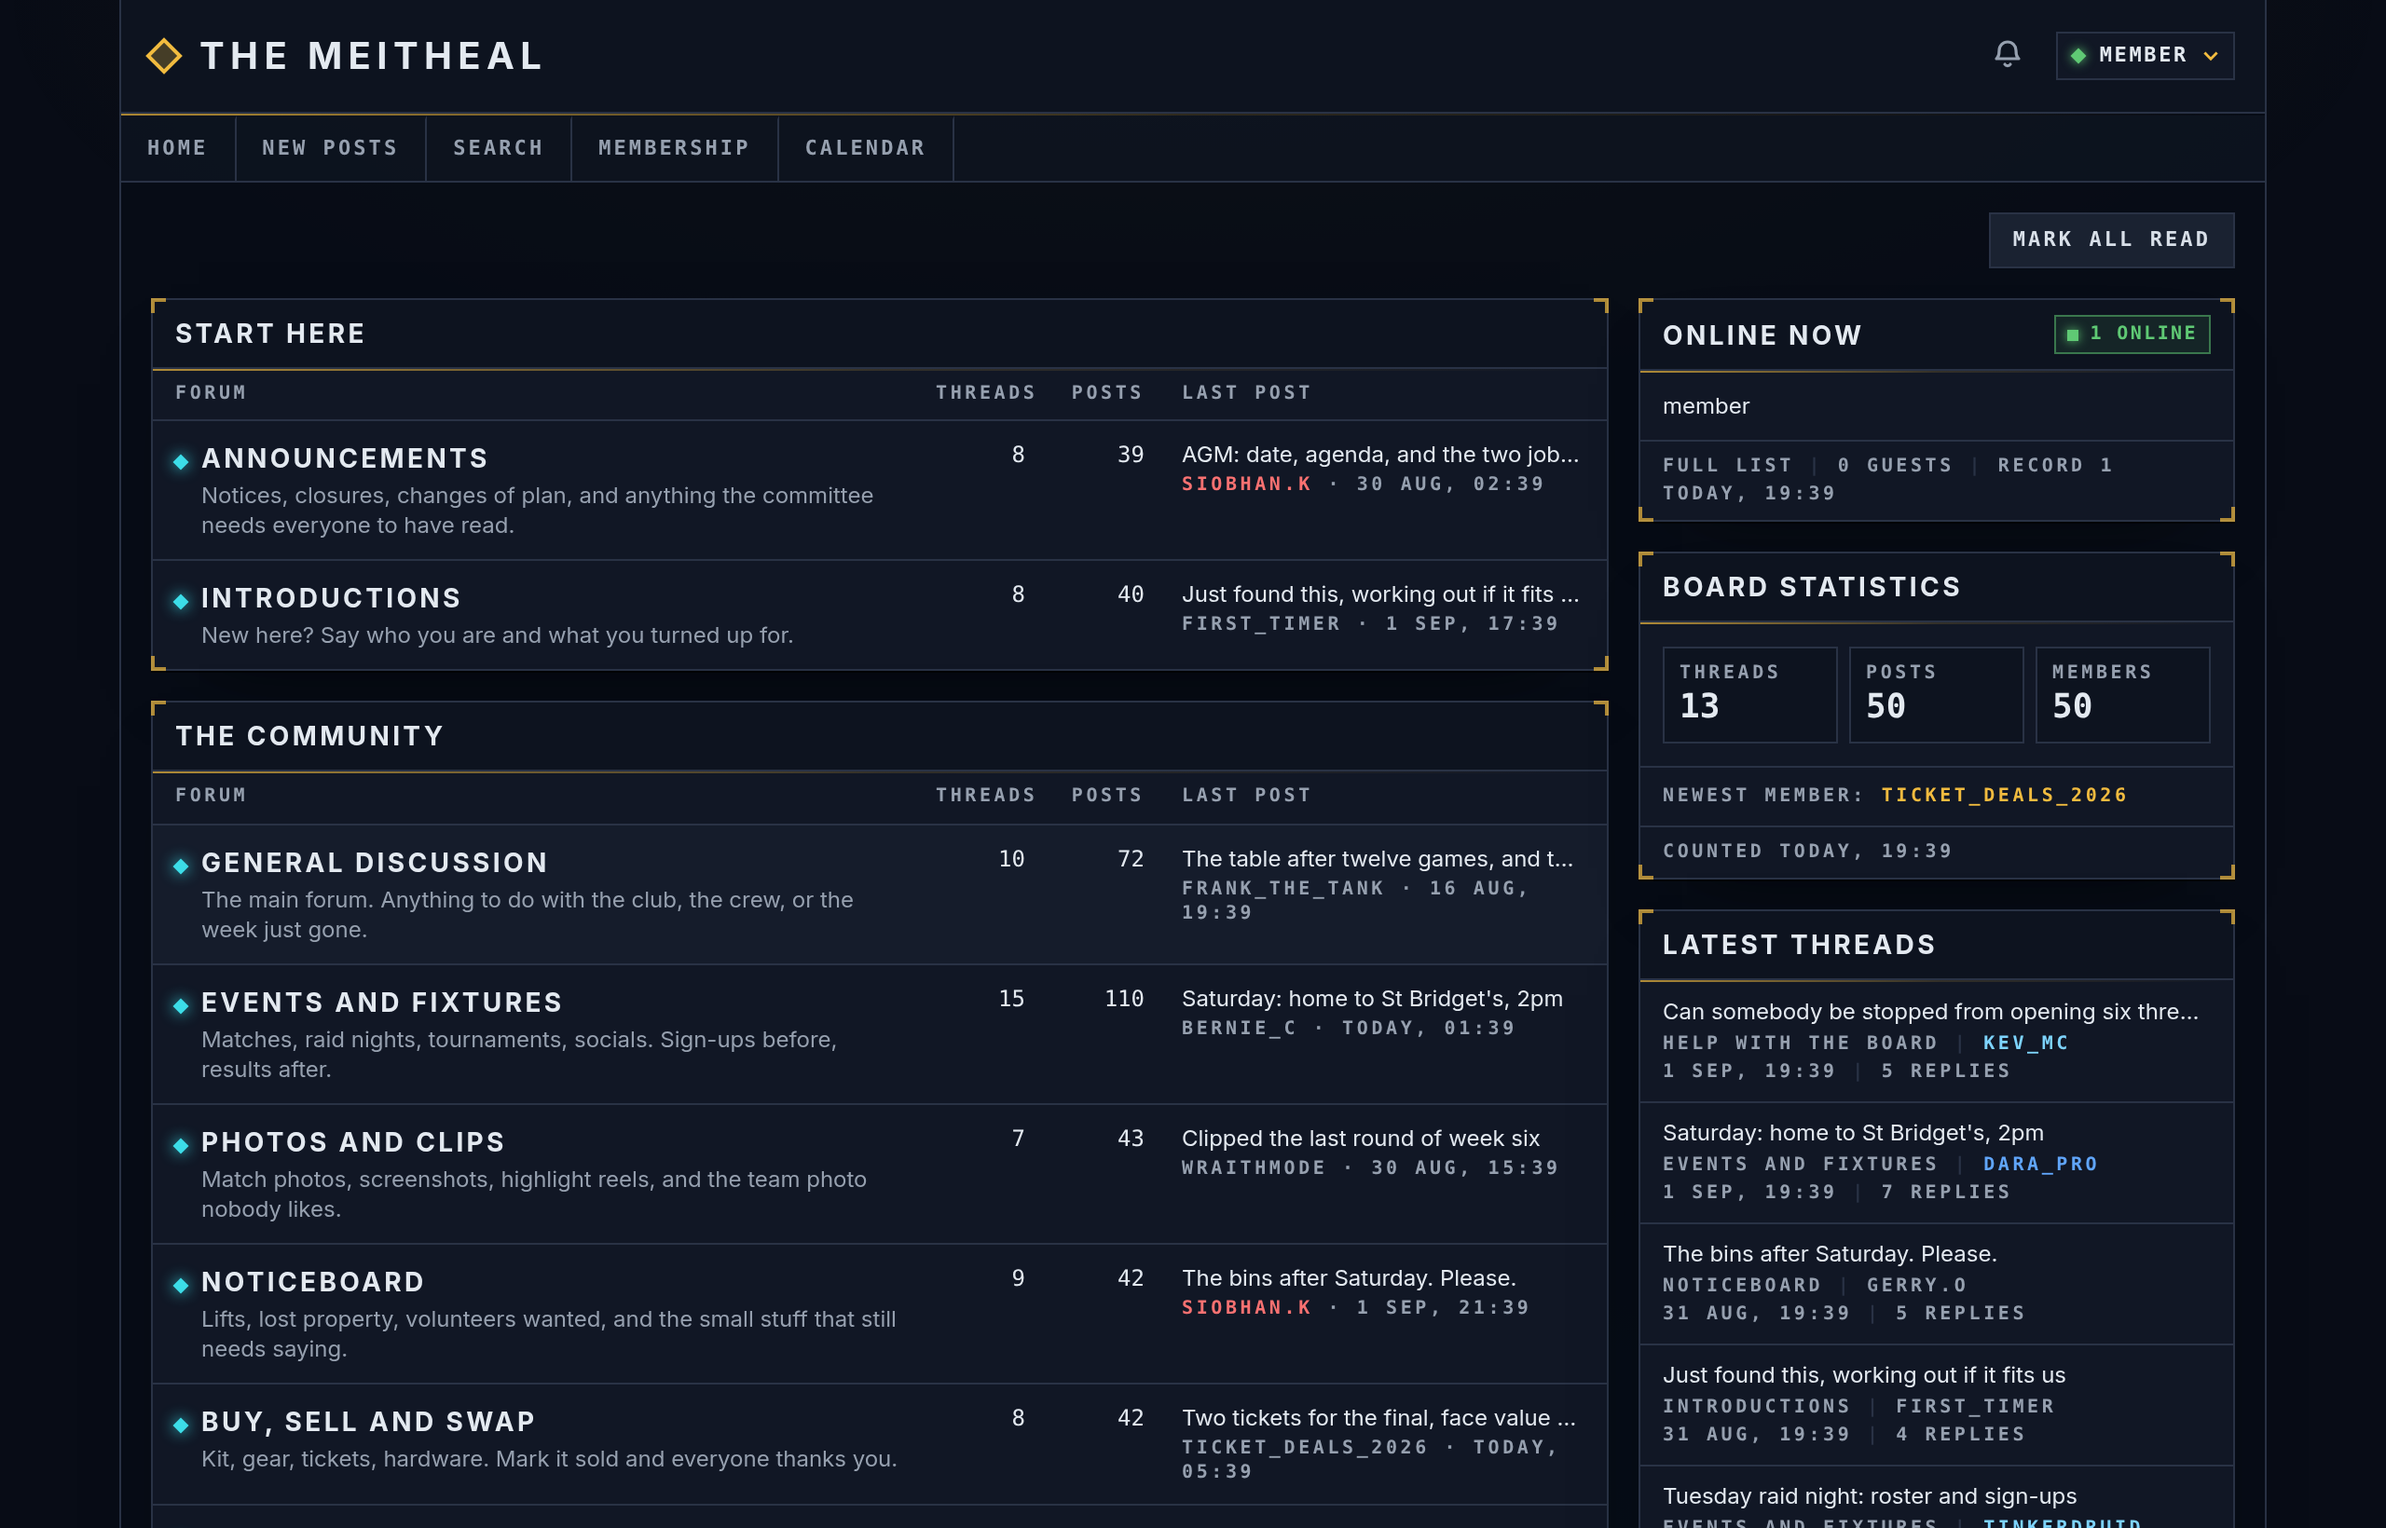
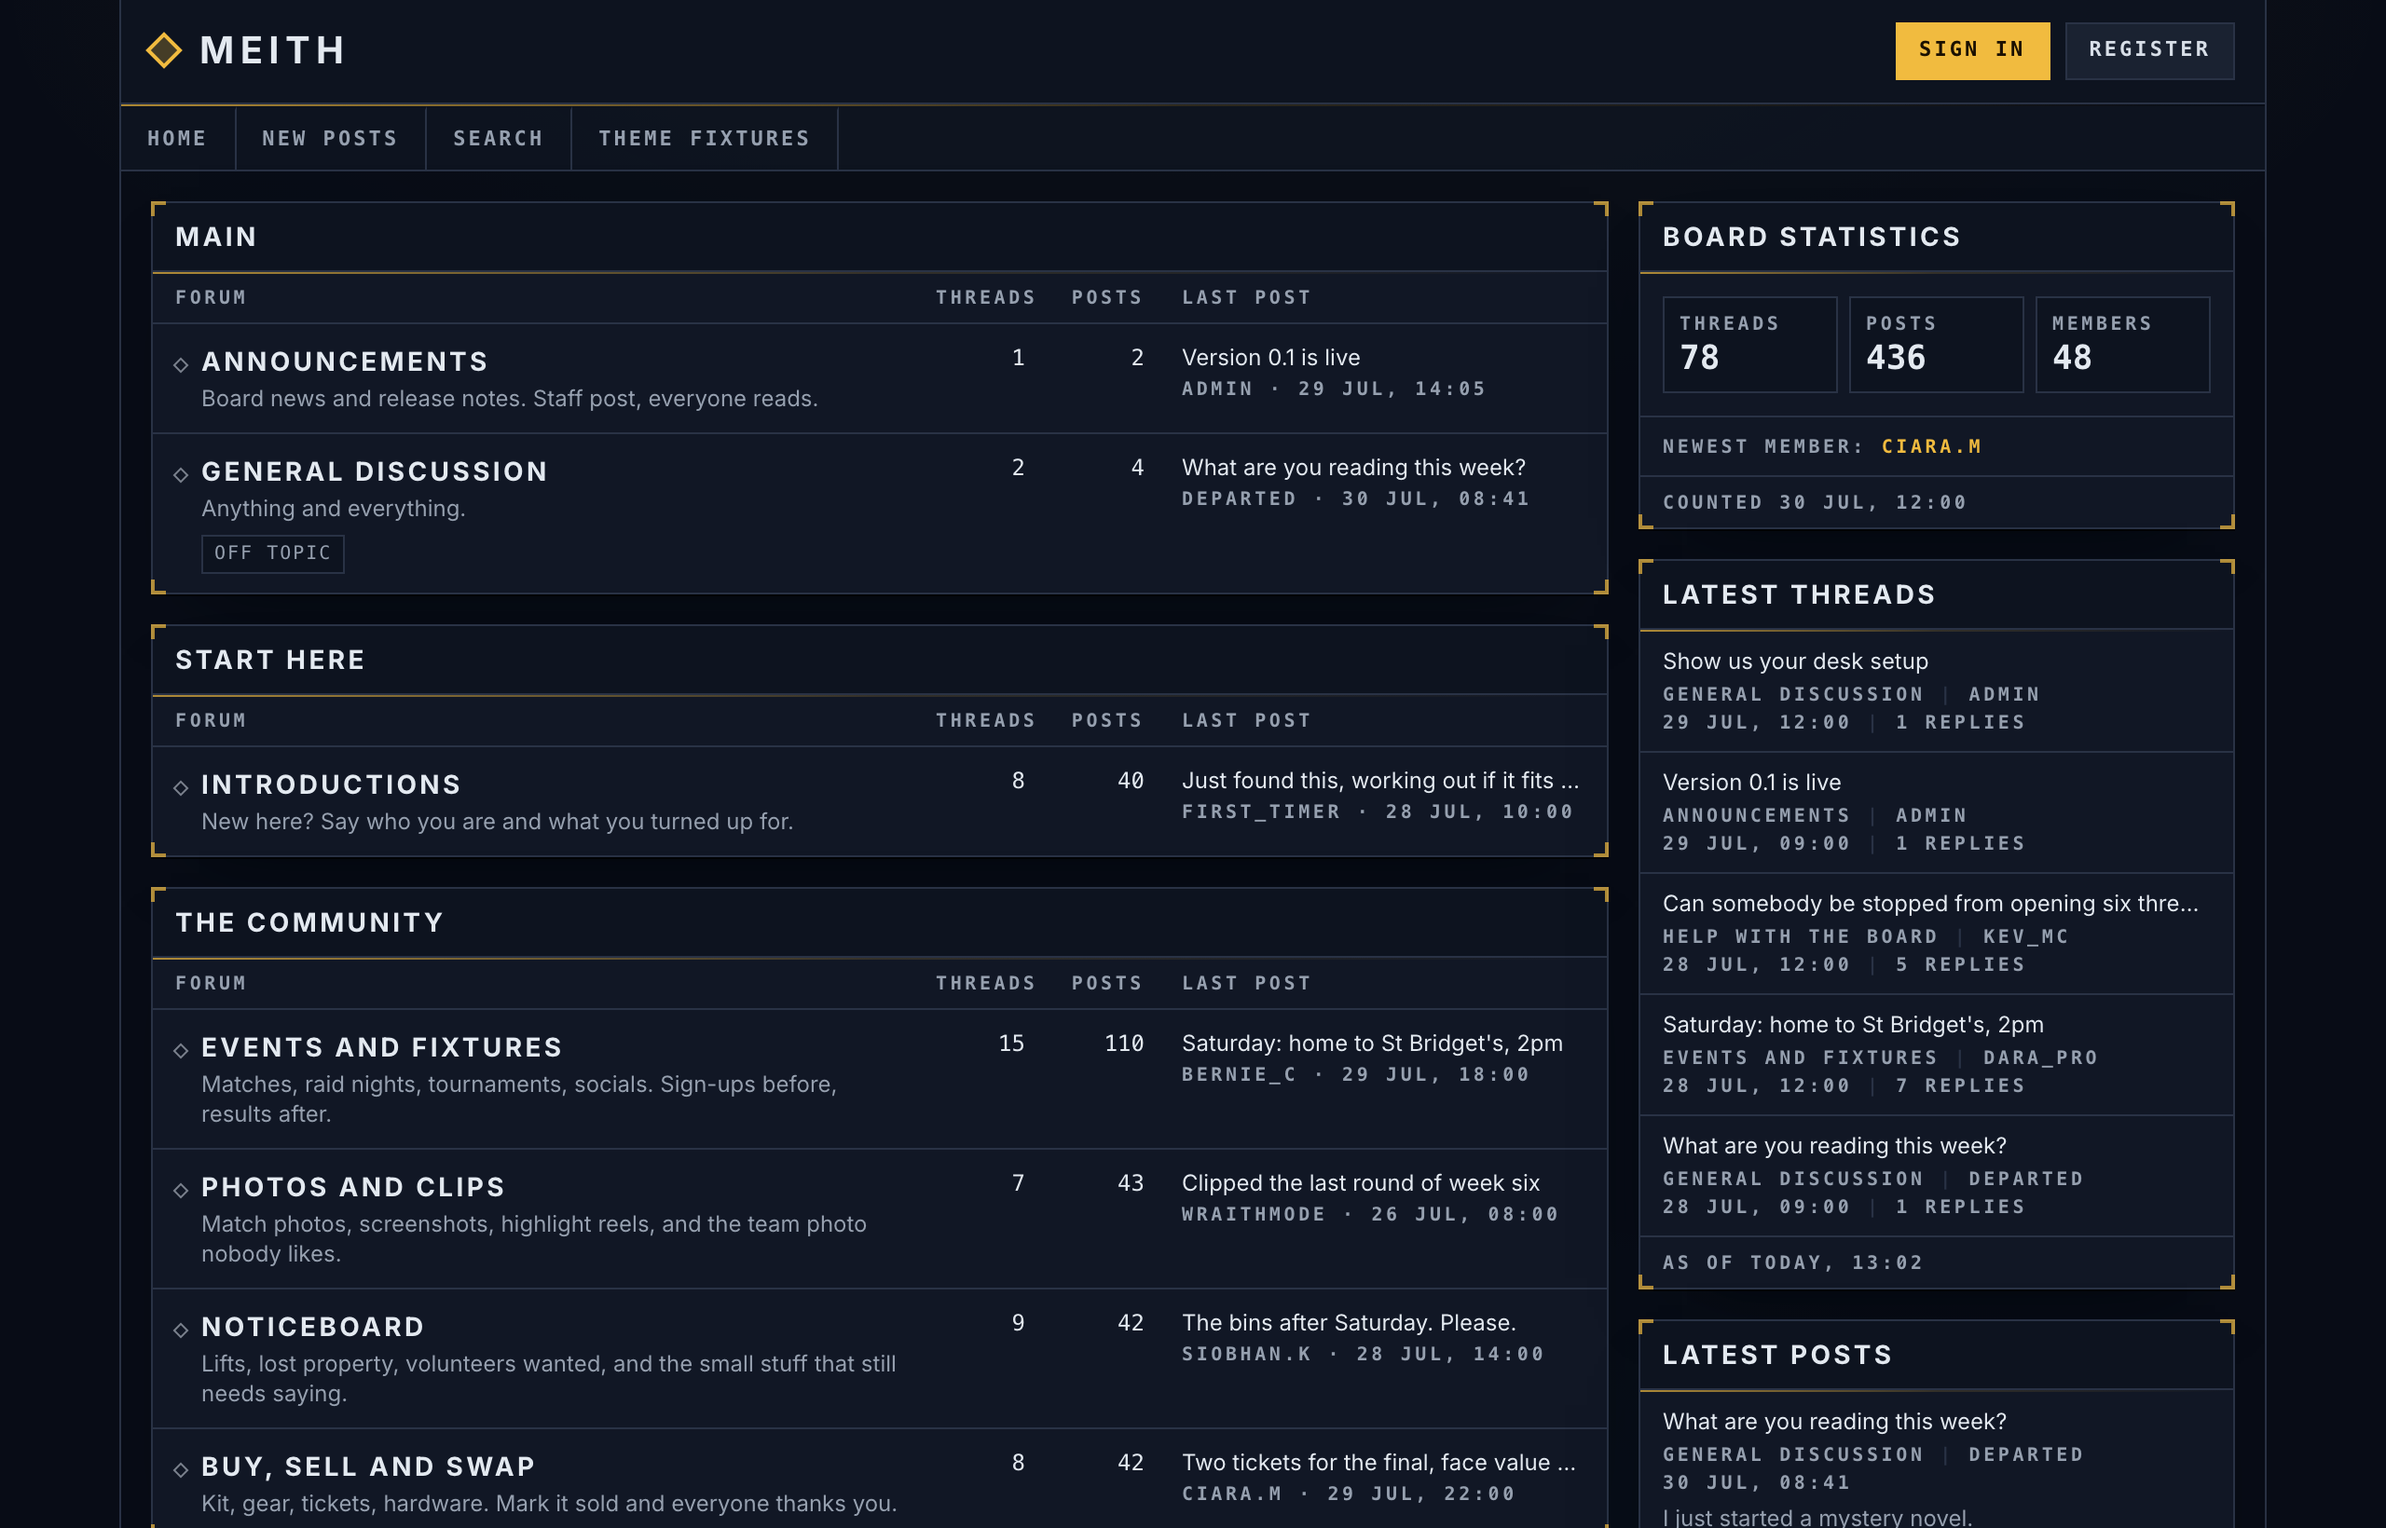
fix(themes): move mark-all-read below forum listings

diff --git a/themes/midnight/src/slots/board-index.tsx b/themes/midnight/src/slots/board-index.tsx
@@ -16,17 +16,6 @@ export function BoardIndex({
         <div className="flex flex-col gap-3">{regions.announcements}</div>
       )}
 
-      {markAllReadAction !== null && (
-        <form action={markAllReadAction} method="post" className="self-end">
-          <button
-            type="submit"
-            className="border border-border px-2 py-1 font-mono text-xs text-muted-foreground hover:bg-muted hover:text-foreground"
-          >
-            {c('markAllRead')}
-          </button>
-        </form>
-      )}
-
       <div
         className={
           hasRail
@@ -34,7 +23,19 @@ export function BoardIndex({
             : 'flex min-w-0 flex-col gap-3'
         }
       >
-        <div className="flex min-w-0 flex-col gap-3">{regions.categories}</div>
+        <div className="flex min-w-0 flex-col gap-3">
+          {regions.categories}
+          {markAllReadAction !== null && (
+            <form action={markAllReadAction} method="post" className="self-end">
+              <button
+                type="submit"
+                className="border border-border px-2 py-1 font-mono text-xs text-muted-foreground hover:bg-muted hover:text-foreground"
+              >
+                {c('markAllRead')}
+              </button>
+            </form>
+          )}
+        </div>
 
         {hasRail && (
           <aside aria-label={c('activityLabel')} className="flex min-w-0 flex-col gap-3">

diff --git a/themes/clubhouse/src/slots/board-index.tsx b/themes/clubhouse/src/slots/board-index.tsx
@@ -20,17 +20,6 @@ export function BoardIndex({
         <div className="flex flex-col gap-3">{regions.announcements}</div>
       )}
 
-      {markAllReadAction !== null && (
-        <form action={markAllReadAction} method="post" className="self-end">
-          <button
-            type="submit"
-            className={cn(BUTTON, 'bg-secondary text-secondary-foreground hover:bg-secondary/80')}
-          >
-            {c('markAllRead')}
-          </button>
-        </form>
-      )}
-
       <div
         className={
           rail
@@ -38,7 +27,22 @@ export function BoardIndex({
             : 'flex min-w-0 flex-col gap-4'
         }
       >
-        <div className="flex min-w-0 flex-col gap-4">{regions.categories}</div>
+        <div className="flex min-w-0 flex-col gap-4">
+          {regions.categories}
+          {markAllReadAction !== null && (
+            <form action={markAllReadAction} method="post" className="self-end">
+              <button
+                type="submit"
+                className={cn(
+                  BUTTON,
+                  'bg-secondary text-secondary-foreground hover:bg-secondary/80',
+                )}
+              >
+                {c('markAllRead')}
+              </button>
+            </form>
+          )}
+        </div>
 
         {rail && (
           <aside aria-label={c('boardActivity')} className="flex min-w-0 flex-col gap-4">

diff --git a/themes/default/src/slots/board-index.tsx b/themes/default/src/slots/board-index.tsx
@@ -21,14 +21,6 @@ export function BoardIndex({
         <div className="flex flex-col gap-3">{regions.announcements}</div>
       )}
 
-      {markAllReadAction !== null && (
-        <form action={markAllReadAction} method="post" className="self-end">
-          <button type="submit" className={buttonVariants({ variant: 'ghost', size: 'sm' })}>
-            {c('markAllRead')}
-          </button>
-        </form>
-      )}
-
       <div
         className={
           rail
@@ -36,7 +28,16 @@ export function BoardIndex({
             : 'flex min-w-0 flex-col gap-5'
         }
       >
-        <div className="flex min-w-0 flex-col gap-5">{regions.categories}</div>
+        <div className="flex min-w-0 flex-col gap-5">
+          {regions.categories}
+          {markAllReadAction !== null && (
+            <form action={markAllReadAction} method="post" className="self-end">
+              <button type="submit" className={buttonVariants({ variant: 'ghost', size: 'sm' })}>
+                {c('markAllRead')}
+              </button>
+            </form>
+          )}
+        </div>
 
         {rail && (
           <aside aria-label={c('boardActivity')} className="flex min-w-0 flex-col gap-5">

diff --git a/themes/raidframe/src/slots/board-index.tsx b/themes/raidframe/src/slots/board-index.tsx
@@ -18,16 +18,17 @@ export function BoardIndex({
         <div className="flex flex-col gap-4 empty:hidden">{regions.announcements}</div>
       )}
 
-      {markAllReadAction !== null && (
-        <form action={markAllReadAction} method="post" className="self-end">
-          <button type="submit" className={BUTTON}>
-            {c('markAllRead')}
-          </button>
-        </form>
-      )}
-
       <div className="flex flex-col gap-4 lg:flex-row lg:items-start">
-        <div className="flex min-w-0 flex-1 flex-col gap-4">{regions.categories}</div>
+        <div className="flex min-w-0 flex-1 flex-col gap-4">
+          {regions.categories}
+          {markAllReadAction !== null && (
+            <form action={markAllReadAction} method="post" className="self-end">
+              <button type="submit" className={BUTTON}>
+                {c('markAllRead')}
+              </button>
+            </form>
+          )}
+        </div>
 
         <aside className="flex flex-col gap-4 empty:hidden lg:w-80 lg:shrink-0">
           {regions.online}

diff --git a/apps/community/src/theme/contract.test.ts b/apps/community/src/theme/contract.test.ts
@@ -65,6 +65,19 @@ describe.each(themes)('theme "$key"', ({ definition }) => {
     expect(assertThemeContract(resolveTheme(definition)).missing).toEqual([])
   })
 
+  it('places the native mark-all-read form after the forums and hides it for guests', async () => {
+    const model = SLOT_FIXTURES.BoardIndex.model
+    const html = await renderSlot(definition, 'BoardIndex', model)
+
+    expect(html).toMatch(/<form[^>]* action="\/mark-read" method="post"[^>]*><button type="submit"/)
+    expect(html.indexOf('action="/mark-read"')).toBeGreaterThan(
+      html.indexOf(String(model.regions.categories)),
+    )
+
+    const guest = await renderSlot(definition, 'BoardIndex', { ...model, markAllReadAction: null })
+    expect(guest).not.toContain('action="/mark-read"')
+  })
+
   const cases = Object.entries(SLOT_FIXTURES).map(([name, fixture]) => ({
     name: name as SlotName,
     fixture: fixture as { model: object; requires: readonly string[] },

diff --git a/themes/phasebook/src/slots/board-index.tsx b/themes/phasebook/src/slots/board-index.tsx
@@ -28,6 +28,8 @@ export function BoardIndex({
             <div className="flex flex-col gap-4 empty:hidden">{regions.announcements}</div>
           )}
 
+          <div className="flex min-w-0 flex-col gap-4">{regions.categories}</div>
+
           {markAllReadAction !== null && (
             <form action={markAllReadAction} method="post" className="self-end">
               <button type="submit" className={PILL_QUIET}>
@@ -35,8 +37,6 @@ export function BoardIndex({
               </button>
             </form>
           )}
-
-          <div className="flex min-w-0 flex-col gap-4">{regions.categories}</div>
 
           {regions.plugins}
         </div>

diff --git a/docs/extensions/theme-design.md b/docs/extensions/theme-design.md
@@ -203,8 +203,10 @@ and keep its title and metadata usable in the compact layout.
 
 Bundled themes start the board index with its announcements and forum
 listing, without a generic Community heading or introductory tagline. The
-mark-all-read control remains available to signed-in members. The default
-shell shares a 1280px maximum width across its header, content, panels and
+mark-all-read control remains available to signed-in members. In every bundled
+theme it sits below the forum listing, aligned to its right edge, so it does
+not reserve a row above the forums and activity sidebar. The default shell
+shares a 1280px maximum width across its header, content, panels and
 footer. Its footer separates forum navigation from appearance preferences.
 Theme and scheme controls continue to submit native forms without scripting.
 
